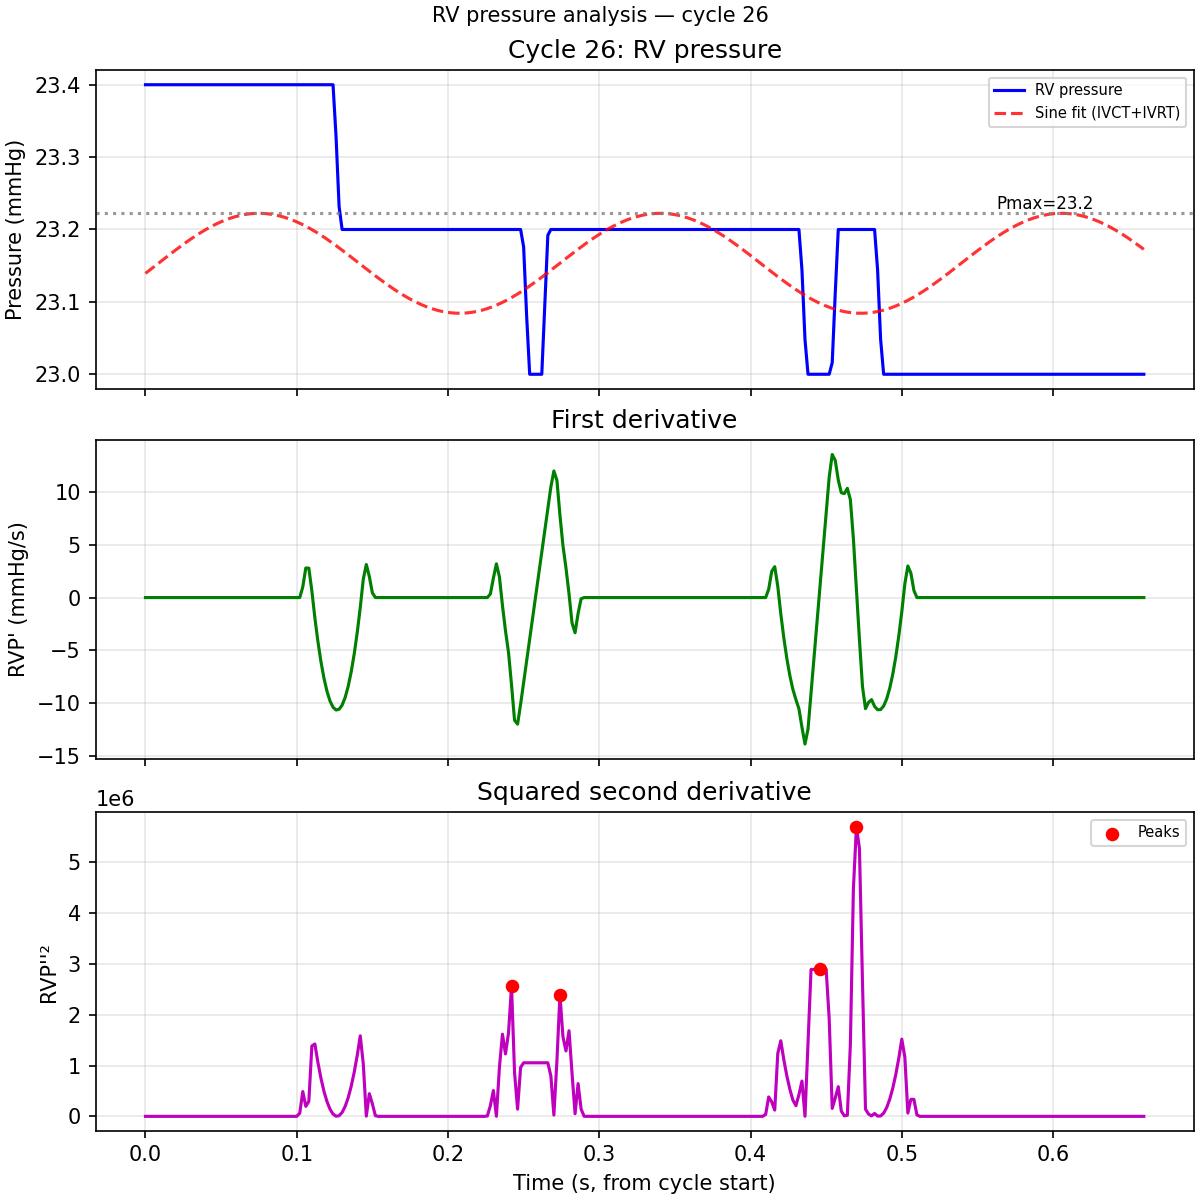
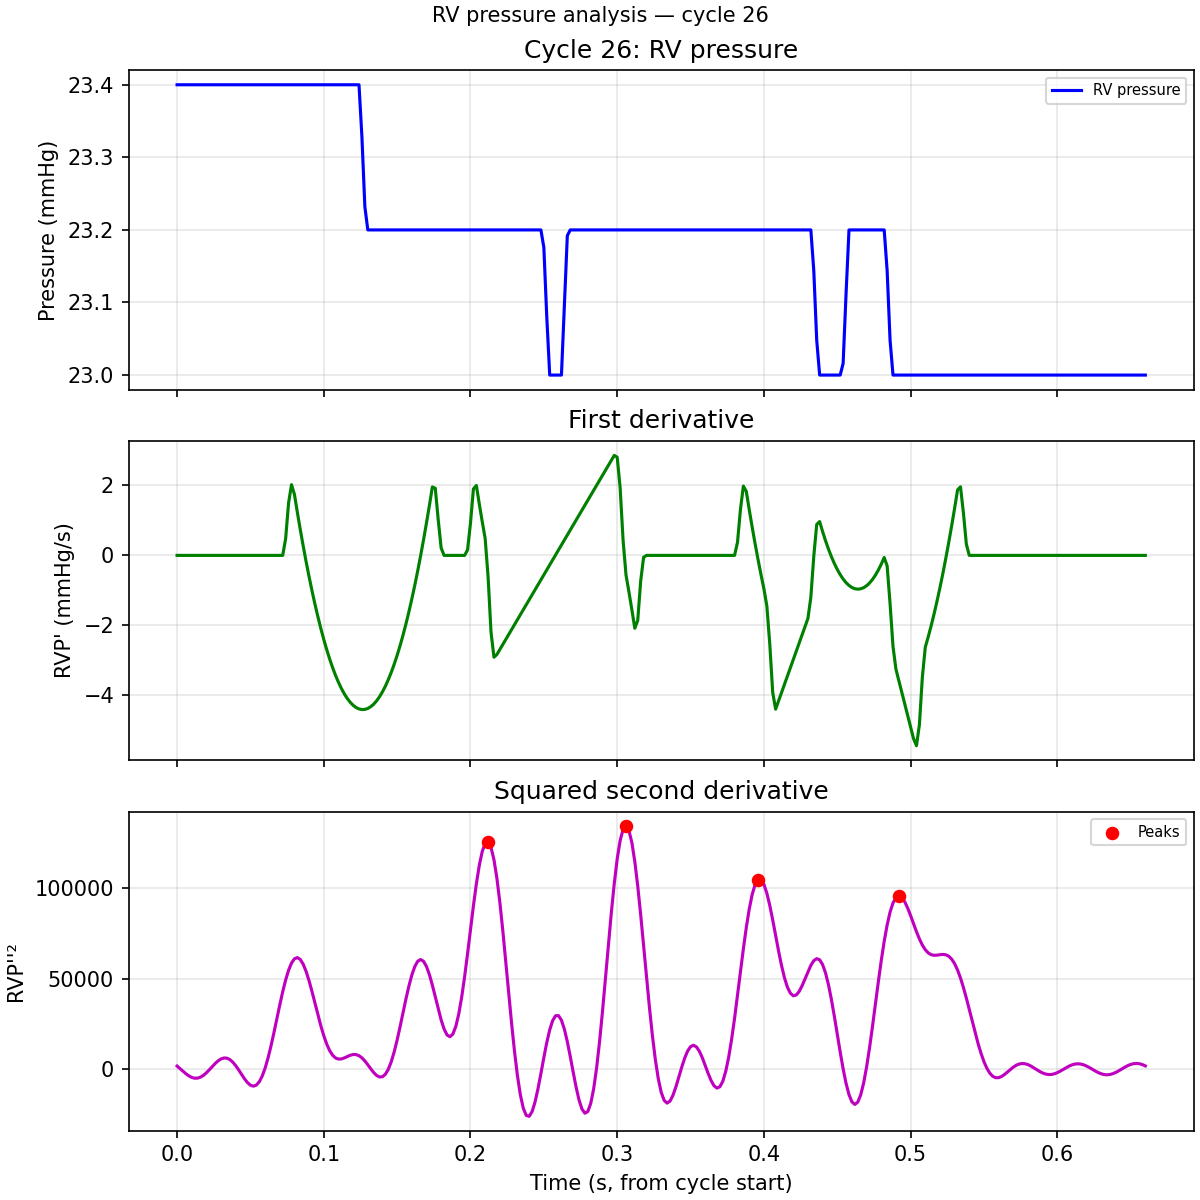
added constraint for 3rd peak

diff --git a/scripts/analyze_rv_pressure.py b/scripts/analyze_rv_pressure.py
@@ -11,6 +11,7 @@ Usage:
         [--deriv-smooth none|savgol|kalman] [--savgol-window N] [--savgol-polyorder P]
         [--kalman-level-noise X] [--kalman-trend-noise X] [--kalman-observation-noise X]
         [--rvp2-sq-spectral] [--rvp2-sq-spectral-fraction F] [--rvp2-sq-spectral-pad N]
+        [--disable-peak3-middle-third]
         [-v|--verbose]
 """
 
@@ -225,6 +226,17 @@ def _spectral_smooth_rvp2_sq(
         return x
 
 
+def _peak3_in_middle_third(peak3_idx: int, n: int) -> bool:
+    """True if sample index lies in the middle third of [0, n-1] (inclusive)."""
+    if n < 1:
+        return False
+    lo = n // 3
+    hi = (2 * n) // 3 - 1
+    if lo > hi:
+        return False
+    return lo <= peak3_idx <= hi
+
+
 def _find_four_peaks(
     rvp2_sq: np.ndarray, min_dist: int = 5, thres: float = 0.1
 ) -> Optional[np.ndarray]:
@@ -315,6 +327,7 @@ def analyze_one_cycle(
     co_l_per_min: float,
     deriv_smooth: Optional[DerivativeSmoothConfig] = None,
     rvp2_sq_spectral: Optional[Rvp2SqSpectralConfig] = None,
+    require_peak3_middle_third: bool = True,
 ) -> tuple[dict[str, Any], Optional[tuple]]:
     """
     Compute all metrics for one cardiac cycle. Returns (row_dict, plot_data).
@@ -330,11 +343,26 @@ def analyze_one_cycle(
     peaks = _find_four_peaks(rvp2_sq)
     if peaks is None or len(peaks) < N_PEAKS_RVP2:
         return (
-            {"cycle_ok": False, "failed_peak_detection": True},
+            {
+                "cycle_ok": False,
+                "failed_peak_detection": True,
+                "failed_peak3_middle_third": False,
+            },
             None,
         )
 
     peak1_idx, peak2_idx, peak3_idx, peak4_idx = int(peaks[0]), int(peaks[1]), int(peaks[2]), int(peaks[3])
+    n_seg = int(rvp2_sq.shape[0])
+    if require_peak3_middle_third and not _peak3_in_middle_third(peak3_idx, n_seg):
+        return (
+            {
+                "cycle_ok": False,
+                "failed_peak_detection": True,
+                "failed_peak3_middle_third": True,
+            },
+            None,
+        )
+
     idx_max_dp = int(np.argmax(rvp1))
     idx_min_dp = int(np.argmin(rvp1))
 
@@ -386,6 +414,7 @@ def analyze_one_cycle(
     row = {
         "cycle_ok": True,
         "failed_peak_detection": False,
+        "failed_peak3_middle_third": False,
         "RR_interval_sec": rr_sec,
         "HR": hr,
         "IVCT": ivct,
@@ -439,14 +468,73 @@ def segment_pressure_by_rr_with_fs(
     return segments
 
 
+def _format_metrics_row(row: dict[str, Any]) -> str:
+    """Multi-line text for diagnostic PNG from per-cycle CSV row."""
+    keys = [
+        "cycle",
+        "CO_method",
+        "CO_L_per_min",
+        "cycle_ok",
+        "failed_peak_detection",
+        "failed_peak3_middle_third",
+        "RR_interval_sec",
+        "HR",
+        "IVCT",
+        "ET",
+        "IVRT",
+        "ESP",
+        "BDP",
+        "EDP",
+        "Pmax",
+        "SV",
+        "ESV",
+        "EDV",
+        "Ees",
+        "Ea",
+        "RVEF_pct",
+        "RVMPI",
+        "beta",
+        "Eed",
+    ]
+    lines: list[str] = []
+    for k in keys:
+        if k not in row:
+            continue
+        v = row[k]
+        if v is None or (isinstance(v, (float, np.floating)) and np.isnan(float(v))):
+            lines.append(f"{k}: N/A")
+        elif isinstance(v, (float, np.floating)):
+            lines.append(f"{k}: {float(v):.5g}")
+        else:
+            lines.append(f"{k}: {v}")
+    return "\n".join(lines)
+
+
 def save_diagnostic_plot(
     plot_data: tuple,
     save_path: Path,
     cycle_num: int,
+    metrics_row: dict[str, Any],
 ) -> None:
-    """Save 3-panel diagnostic plot: RVP (+ sine), RVP', RVP''²; shared x-axis."""
+    """Save 3-panel diagnostic plot plus metrics text: RVP (+ sine), RVP', RVP''²; shared x-axis."""
     t, rvp, rvp1, rvp2_sq, peaks, pmax, t_fit, p_fit, idx_max_dp, idx_min_dp = plot_data
-    fig, (ax1, ax2, ax3) = plt.subplots(3, 1, sharex=True, figsize=(8, 8), layout="constrained")
+    fig = plt.figure(figsize=(8, 10), layout="constrained")
+    gs = fig.add_gridspec(4, 1, height_ratios=[3.0, 3.0, 3.0, 1.5])
+    ax1 = fig.add_subplot(gs[0, 0])
+    ax2 = fig.add_subplot(gs[1, 0], sharex=ax1)
+    ax3 = fig.add_subplot(gs[2, 0], sharex=ax1)
+    ax4 = fig.add_subplot(gs[3, 0])
+    ax4.axis("off")
+    ax4.text(
+        0.0,
+        1.0,
+        _format_metrics_row(metrics_row),
+        transform=ax4.transAxes,
+        va="top",
+        ha="left",
+        fontsize=6,
+        family="monospace",
+    )
     ax1.plot(t, rvp, "b-", label="RV pressure")
     if t_fit is not None and p_fit is not None:
         ax1.plot(t_fit, p_fit, "r--", alpha=0.8, label="Sine fit (IVCT+IVRT)")
@@ -485,6 +573,7 @@ def run_analysis(
     verbose: bool = False,
     deriv_smooth: Optional[DerivativeSmoothConfig] = None,
     rvp2_sq_spectral: Optional[Rvp2SqSpectralConfig] = None,
+    require_peak3_middle_third: bool = True,
 ) -> int:
     """Load HDF5, run full pipeline, write CSV and PNGs. Returns 0 on success."""
     if co_method.upper() == "TDCO":
@@ -578,6 +667,7 @@ def run_analysis(
             co_l_per_min,
             deriv_smooth=deriv_smooth,
             rvp2_sq_spectral=rvp2_sq_spectral,
+            require_peak3_middle_third=require_peak3_middle_third,
         )
         row["cycle"] = cycle_num
         row["CO_method"] = co_method
@@ -588,6 +678,7 @@ def run_analysis(
                 plot_data,
                 png_dir / f"{basename}_{cycle_num}.png",
                 cycle_num,
+                row,
             )
 
     if verbose:
@@ -698,6 +789,11 @@ def main() -> int:
         metavar="N",
         help=f"Spectral smoother: symmetric pad length at each edge. Default: {ECG_PAD_LEN} (same as ECG path)",
     )
+    parser.add_argument(
+        "--disable-peak3-middle-third",
+        action="store_true",
+        help="Disable requirement that the 3rd RVP''² peak (time-ordered) lies in the middle third of the cycle",
+    )
     args = parser.parse_args()
     h5_path = args.h5_path.resolve()
     if not h5_path.is_file():
@@ -725,6 +821,7 @@ def main() -> int:
         verbose=args.verbose,
         deriv_smooth=deriv_cfg,
         rvp2_sq_spectral=rvp2_sq_cfg,
+        require_peak3_middle_third=not args.disable_peak3_middle_third,
     )
 
 

diff --git a/README.md b/README.md
@@ -174,6 +174,14 @@ After derivative smoothing (if any) and squaring RVP″, you can apply a **secon
 
 Very short cycles may skip spectral smoothing with a stderr warning and use unsmoothed \((\mathrm{RVP}'')^2\).
 
+### 3rd RVP''² peak in the middle third (default)
+
+Among the four largest peaks on \((\mathrm{RVP}'')^2\) (sorted in **time order**), the **third** peak (the middle one in time) must fall in the **middle third** of the cycle’s sample indices. If not, that beat is marked as failed peak detection (`failed_peak3_middle_third` is true in the CSV). This is **on** by default.
+
+| Flag | Meaning |
+|------|---------|
+| `--disable-peak3-middle-third` | Turn off this requirement (restores behavior closer to older versions that did not check peak position). |
+
 ### HDF5 inputs the script expects
 
 - Datasets: `--ecg-lead` (default `ECG_lead_II`) and **`RHC_pressure`**.
@@ -181,8 +189,8 @@ Very short cycles may skip spectral smoothing with a stderr warning and use unsm
 
 ### Outputs
 
-- **`csv_files/{stem}.csv`**: one row per cardiac cycle attempt with columns such as cycle index, `cycle_ok`, hemodynamic intervals, volumes/pressures where fitted, and metadata (`CO_method`, `CO_L_per_min`, etc.).
-- **`png_files/{stem}_{n}.png`**: three-panel plot (RV pressure + optional sine fit, RVP′, \((\mathrm{RVP}'')^2\) with detected peaks) for cycles with `cycle_ok` True.
+- **`csv_files/{stem}.csv`**: one row per cardiac cycle attempt with columns such as cycle index, `cycle_ok`, `failed_peak_detection`, `failed_peak3_middle_third`, hemodynamic intervals, volumes/pressures where fitted, and metadata (`CO_method`, `CO_L_per_min`, etc.).
+- **`png_files/{stem}_{n}.png`**: three stacked waveform panels (RV pressure + optional sine fit, RVP′, \((\mathrm{RVP}'')^2\) with detected peaks) plus a **text block under the plots** listing the same per-cycle metrics and CO inputs for cycles with `cycle_ok` True.
 
 ---
 
@@ -217,5 +225,6 @@ python scripts/analyze_rv_pressure.py hdf5_files/TRM127-RHC1.h5 --co-method TDCO
 | Analysis: no valid cycles | R–R outside 0.4–1.5 s, or too few R-peaks; check ECG quality and `--ecg-lead`. |
 | Derivative smoothing warnings | Short segments may skip Savitzky–Golay or Kalman; warnings go to stderr. |
 | Spectral \((\mathrm{RVP}'')^2\) warnings | Very short cycles or invalid fraction/pad; falls back to unsmoothed \((\mathrm{RVP}'')^2\). |
+| Many cycles fail `failed_peak3_middle_third` | Third \((\mathrm{RVP}'')^2\) peak not in middle third of beat; try `--disable-peak3-middle-third` or improve signals / smoothing. |
 
 For full behavior (filters, peak rules, and metric definitions), see the docstrings and constants in `scripts/analyze_rv_pressure.py`.
